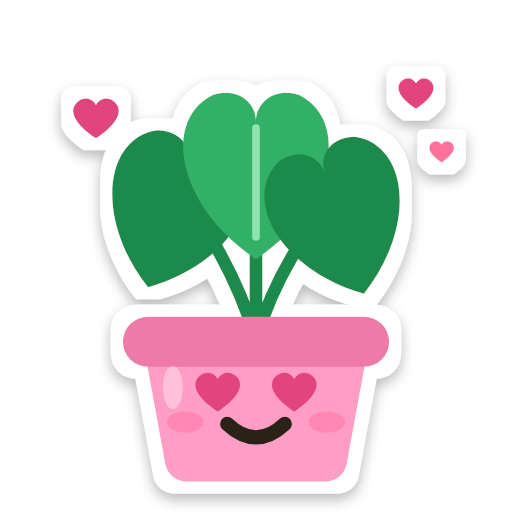
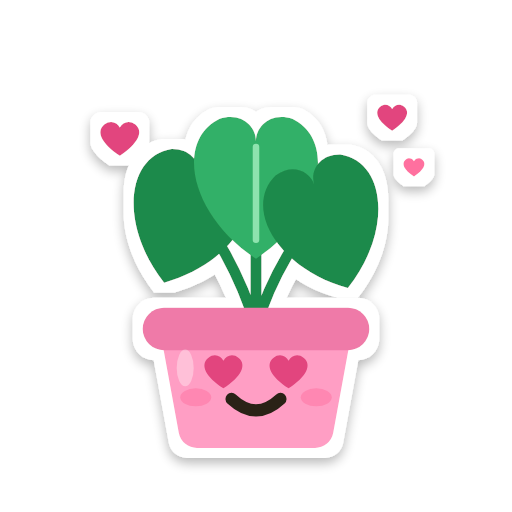
Add margin so stickers show at about 85% in chats

Changed region(s): [[0.0938, 0.1562, 0.9375, 0.625], [0.1875, 0.625, 0.8125, 1.0], [0.4062, 0.4062, 0.4375, 0.4375]]

diff --git a/build.js b/build.js
@@ -60,6 +60,9 @@ const FACE_PROPS = { laugh: `${drop(22.6, 49.6, .5)}${drop(41.4, 49.6, .5)}` };
 const face = m => CHEEKS + (FACES[m] || NEW_FACES[m]) + (FACE_PROPS[m] || '');
 // Stickers are seen at ~160 px in a chat, so the pot grows from its rim and the face grows inside it.
 const POT_SCALE = 1.3, FACE_SCALE = 1.15;
+// Telegram stretches the 512 px canvas to its sticker size, so empty margin makes stickers look smaller.
+// 80 units fit the drawing edge to edge; 94 shows it at about 85%.
+const SIZE = 94, VIEW = `${32 - SIZE / 2} ${31 - SIZE / 2} ${SIZE} ${SIZE}`;
 const potWithFace = m => `<g transform="translate(32 40.5) scale(${POT_SCALE}) translate(-32 -40.5)">${POT_SVG}` +
   `<g transform="translate(32 52) scale(${FACE_SCALE}) translate(-32 -52)">${face(m)}</g></g>`;
 
@@ -90,7 +93,7 @@ fs.mkdirSync(path.join(__dirname, 'svg'), { recursive: true });
 fs.mkdirSync(path.join(__dirname, 'png'), { recursive: true });
 for (const [file, shape, mood, pot, emoji] of SET) {
   const [p1, p2] = POTS[pot];
-  const svg = `<svg xmlns="http://www.w3.org/2000/svg" width="512" height="512" viewBox="-8 -9 80 80">
+  const svg = `<svg xmlns="http://www.w3.org/2000/svg" width="512" height="512" viewBox="${VIEW}">
 <style>:root{--pot:${p1};--pot-2:${p2}}html,body,svg{margin:0;background:transparent}${CSS}</style>
 <defs>${FILTER}</defs>
 <g filter="url(#o)">${PROPS[mood] || ''}${SHAPES[shape].replace(POT_SVG, '')}${potWithFace(mood)}</g></svg>`;
